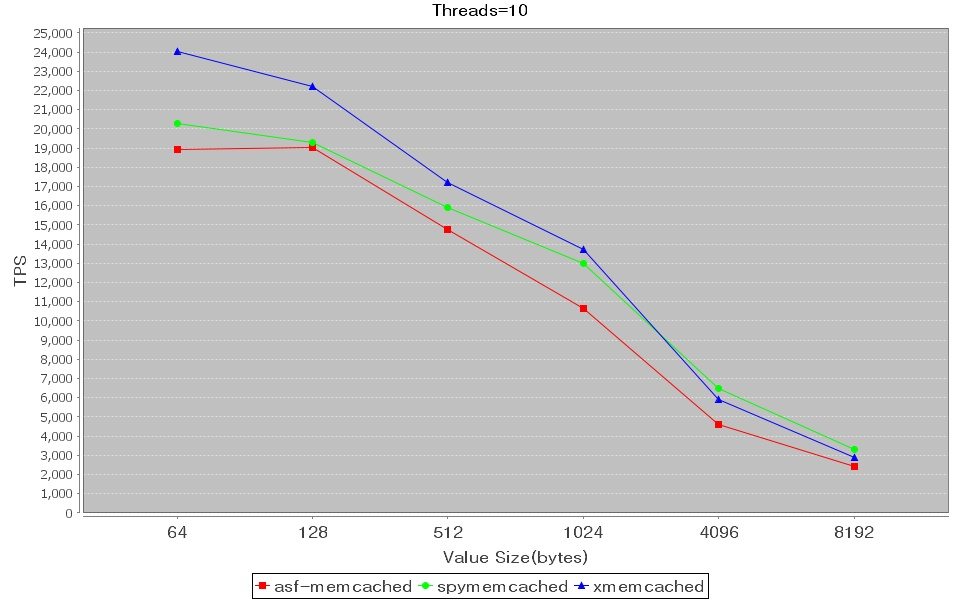
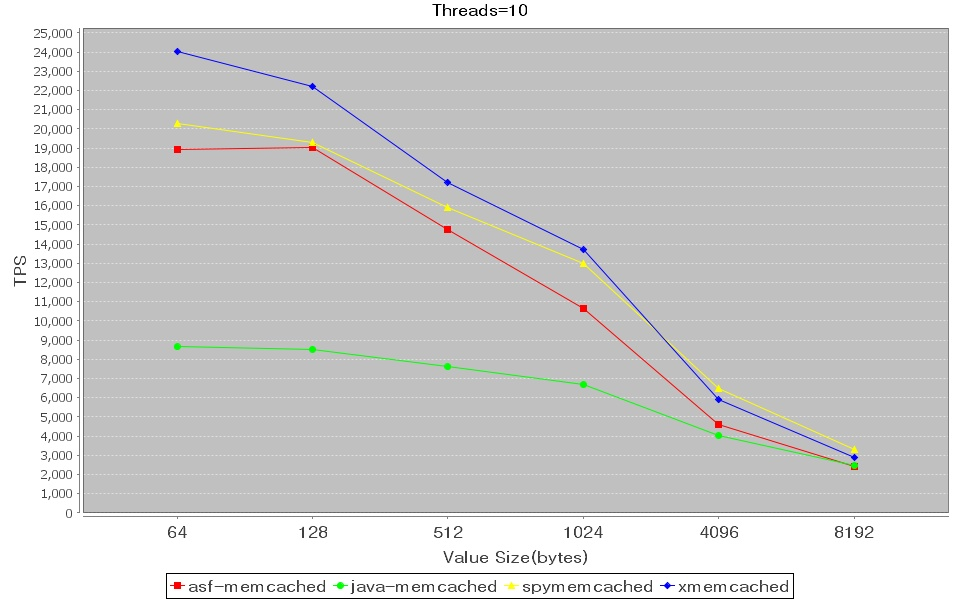
add Java-MemCached benchmark result

diff --git a/benchmark/benchmark.html b/benchmark/benchmark.html
@@ -93,7 +93,7 @@ I can't test more threads,because of memcached's evictions cut down the hit rate
 <h2>Test Result</h2>
 
 <h3>Client and Server on Different Machines</h3>
-<p><h4>Part1 Compare by threads number</h4> 
+<p><h3>Part1 Compare by threads number</h3> 
 <img src="result/images/bytes64.jpg" /> <br>
 <br><br>
 <br>
@@ -115,7 +115,8 @@ I can't test more threads,because of memcached's evictions cut down the hit rate
 <img src="result/images/bytes8192.jpg" /> <br>
 <br><br>
 <br>
-<p><h4>Part2 Compare by value size</h4> 
+<br>
+<p><h3>Part2 Compare by value size</h3> 
 <img src="result/images/threads1.jpg" /> <br>
 <br><br>
 <br>
